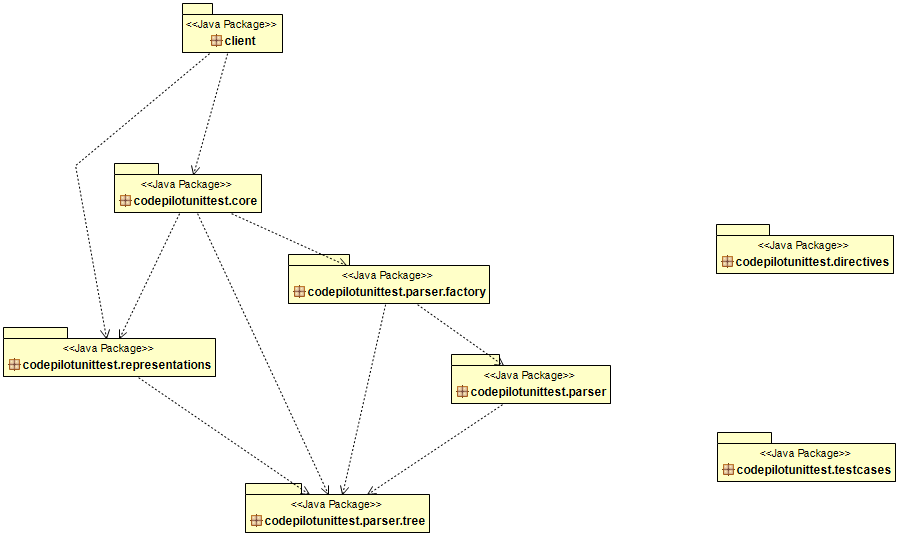
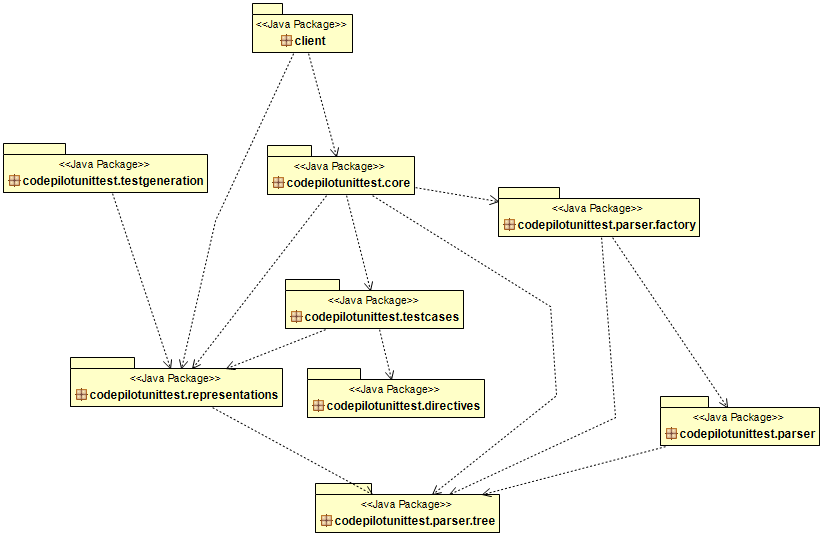
Break the cycle

diff --git a/src/main/java/codepilotunittest/representations/MethodRepresentation.java b/src/main/java/codepilotunittest/representations/MethodRepresentation.java
@@ -4,7 +4,6 @@ package codepilotunittest.representations;
 import codepilotunittest.parser.tree.LeafNode;
 import codepilotunittest.parser.tree.ModifierType;
 import codepilotunittest.parser.tree.Relationship;
-import codepilotunittest.testgeneration.ParameterGenerator;
 
 import java.util.List;
 import java.util.Map;
@@ -16,7 +15,6 @@ public class MethodRepresentation implements SrcElement {
     private Map<String, String> parameters;
     private List<ModifierType> modifiers;
     private Set<Relationship<LeafNode>> relationships;
-    private ParameterGenerator parameterGenerator = new ParameterGenerator();
 
     public MethodRepresentation(String methodName, String returnType, Map<String, String> parameters, List<ModifierType> modifiers, Set<Relationship<LeafNode>> relationships, List<String> testAnnotations) {
         this.methodName = methodName;
@@ -46,9 +44,7 @@ public class MethodRepresentation implements SrcElement {
         return relationships;
     }
 
-    public String generateParameter(String parameterName, String parameterValue) {
-       return parameterGenerator.generateParameter(parameters.get(parameterName), parameterName, parameterValue);
-    }
+
 
     @Override
     public String toString() {
